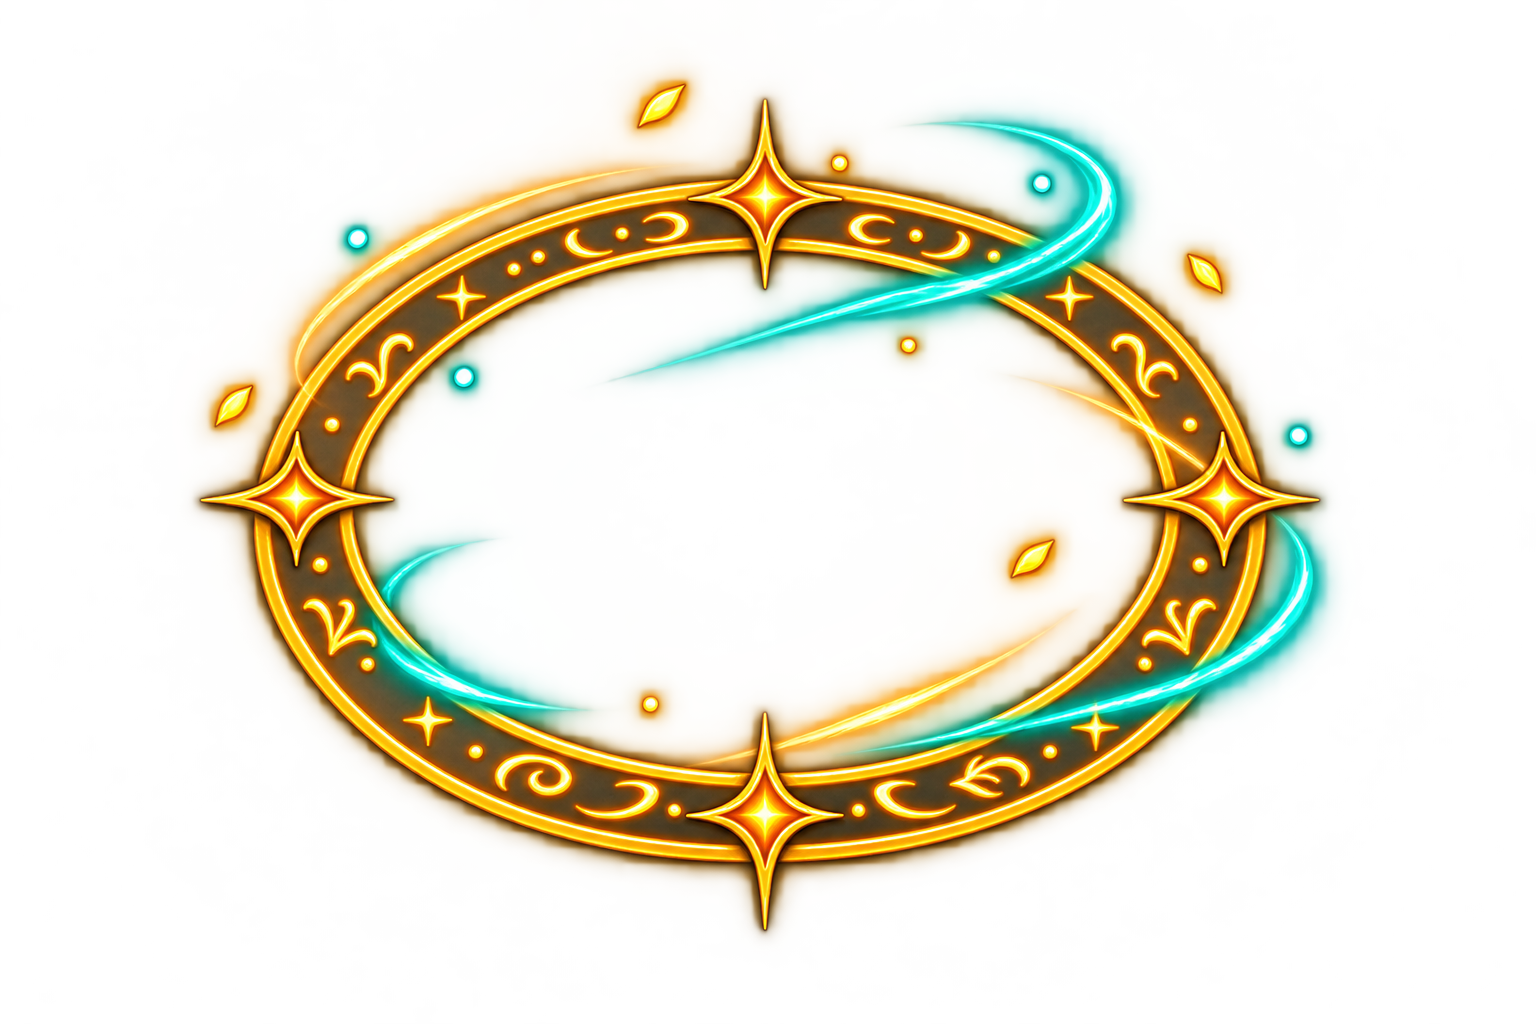
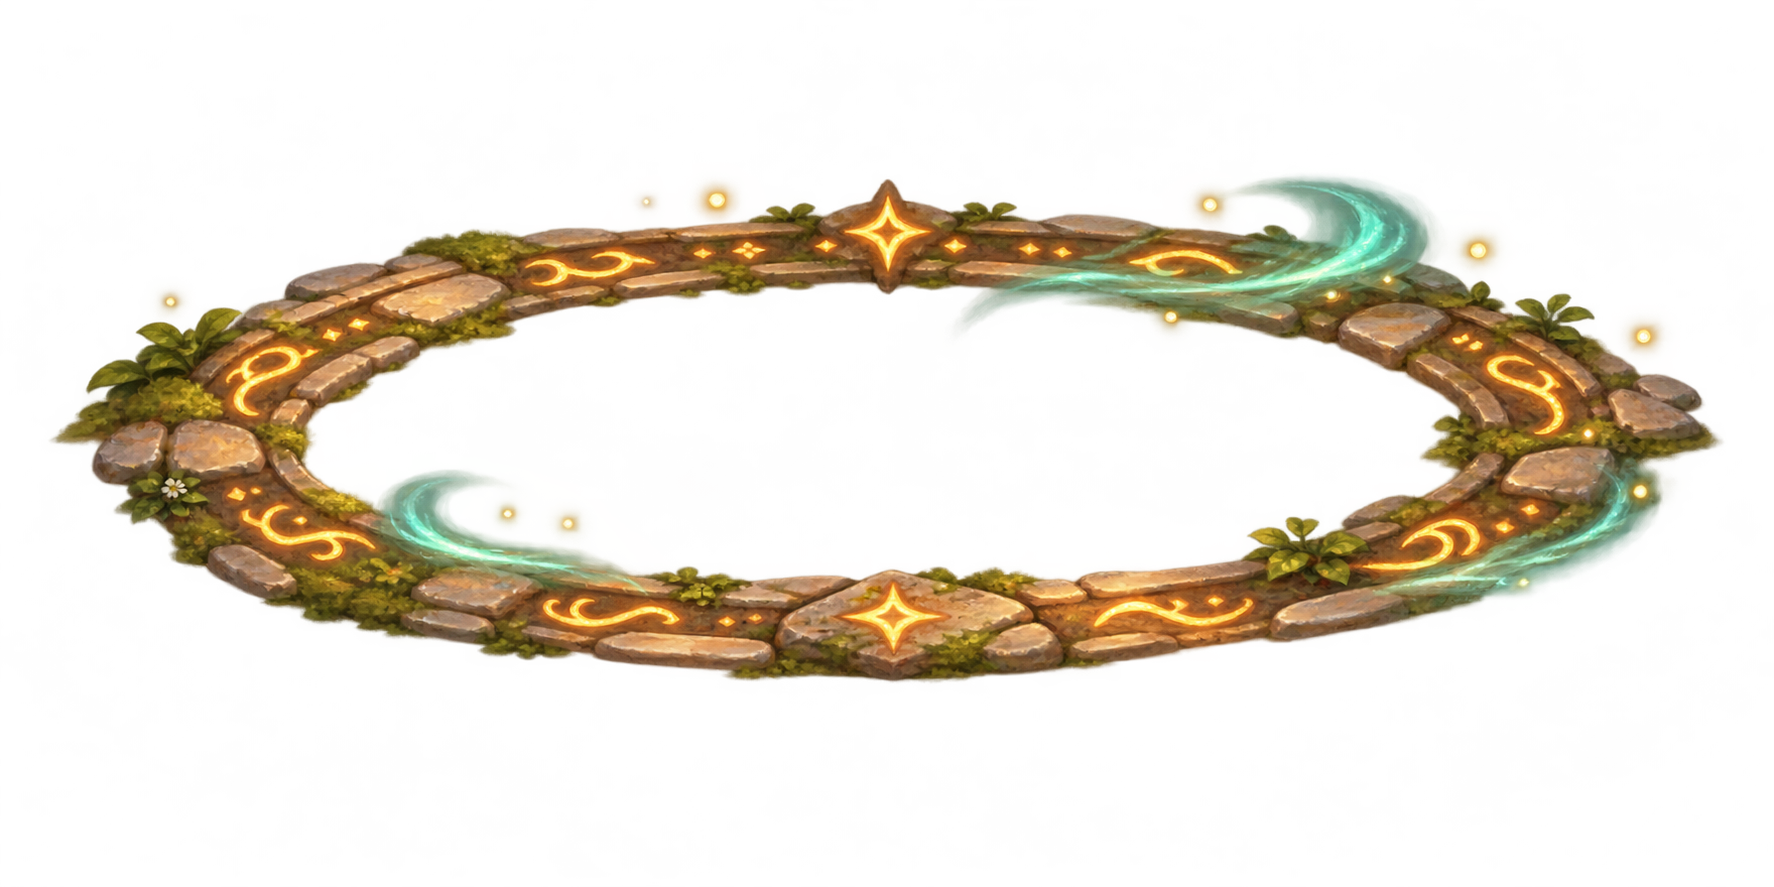
Rune portal picture v6: worn, moss-edged stone ring painted lying flat; drawn at its own shape (no squashing), particles moved onto the new ring
Claude-Session: https://claude.ai/code/session_01FdNBSjX3EpmvbacjATUpjx

diff --git a/Assets/Scripts/View/MapScenery.cs b/Assets/Scripts/View/MapScenery.cs
@@ -931,9 +931,9 @@ namespace AshenVale
         public static readonly Color MapPortalColor = new Color(.45f, .68f, 1f), ReturnPortalColor = new Color(1f, .78f, .38f),
                                      TownPortalColor = new Color(.7f, .55f, 1f);
 
-        // How tall the rune circle's picture is drawn (it is 2.65 wide) and how far its centre sits above the floor.
-        // Smaller height = flatter on the ground.
-        const float RuneHeight = .62f, RuneLift = .10f;
+        // The rune circle's picture is painted already lying flat (twice as wide as it is tall), so it is drawn at its
+        // own shape: RuneWidth across, and RuneLift is how far its centre sits above the floor line.
+        const float RuneWidth = 2.65f, RuneHeight = RuneWidth / 2f, RuneLift = .14f;
 
         // Ground rune portal, shared by map gates, return gates, and the temporary town portal.
         static void BuildPortal(Transform root, float x, float y, bool townReturn)
@@ -954,9 +954,8 @@ namespace AshenVale
             {
                 var art = Sprites.Picture("Rune Circle", sprite, order, anchor, 0f, 0f);
                 // Centre the picture on the anchor wherever its pivot is (props are imported standing on their bottom edge).
-                // Lying flat: seen from the side a circle on the floor is a thin ellipse, so the picture is squashed
-                // hard and centred just above the walking surface (its near edge dips a touch below the floor line).
-                float sx = 2.65f / sprite.bounds.size.x, sy = RuneHeight / sprite.bounds.size.y;
+                // Never squashed: one scale for both directions, centred just above the walking surface.
+                float sx = RuneWidth / sprite.bounds.size.x, sy = sx;
                 art.transform.localScale = new Vector3(sx, sy, 1f);
                 art.transform.localPosition = new Vector3(-sprite.bounds.center.x * sx, -sprite.bounds.center.y * sy, 0f);
                 art.GetComponent<SpriteRenderer>().color = Color.white;
@@ -970,7 +969,7 @@ namespace AshenVale
                     Color dot = Color.Lerp(color, Color.white, .35f);
                     dot.a = i % 3 == 0 ? .9f : .48f;
                     Sprites.Blob("Rune mote", dot, i % 3 == 0 ? .075f : .045f, i % 3 == 0 ? .075f : .045f,
-                        order, parent, x + Mathf.Cos(angle) * 1.05f, y + RuneLift + Mathf.Sin(angle) * RuneHeight * .4f);
+                        order, parent, x + Mathf.Cos(angle) * 1.05f, y + RuneLift + Mathf.Sin(angle) * RuneHeight * .25f);
                 }
             }
 

diff --git a/Assets/Scripts/View/PortalManaVfx.cs b/Assets/Scripts/View/PortalManaVfx.cs
@@ -16,7 +16,7 @@ namespace AshenVale
 
             var particleObject = new GameObject("Orbiting Mana");
             particleObject.transform.SetParent(transform, false);
-            particleObject.transform.localScale = new Vector3(1f, .25f, 1f);     // the motes follow the flattened circle
+            particleObject.transform.localScale = new Vector3(1.1f, .30f, 1f);    // the painted stone ring's centre line
             particles = particleObject.AddComponent<ParticleSystem>();
             // A new system starts playing at once, and Unity refuses changes to its duration while it plays:
             // stop and clear it, set it up, then Play() at the end.
@@ -98,7 +98,7 @@ namespace AshenVale
         {
             var sparkleObject = new GameObject("Rune Shimmer Sparks");
             sparkleObject.transform.SetParent(transform, false);
-            sparkleObject.transform.localScale = new Vector3(1f, .25f, 1f);     // flat, like the circle
+            sparkleObject.transform.localScale = new Vector3(1.1f, .30f, 1f);    // on the ring, like the motes
             sparkles = sparkleObject.AddComponent<ParticleSystem>();
             sparkles.Stop(true, ParticleSystemStopBehavior.StopEmittingAndClear);   // see Initialize
 
